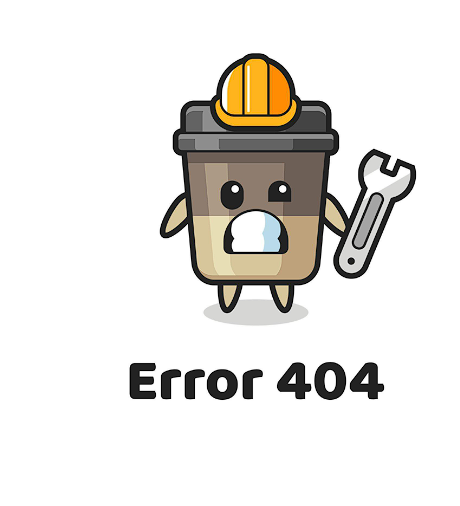
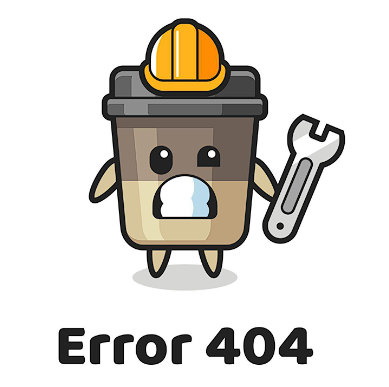
agregue el maquetado del error y la de admi, faltan agregar iconos

Changed region(s): [[0.2159, 0.031, 0.9254, 0.8062], [0.1234, 0.8372, 0.4936, 0.9612], [0.5244, 0.8372, 0.8021, 0.9612]]

diff --git a/src/components/pages/Administrador.jsx b/src/components/pages/Administrador.jsx
@@ -1,6 +1,39 @@
+import { Container, Table } from "react-bootstrap";
+import chocotorta from '../../assets/chocotorta.jpg'
+
 const Administrador = () => {
     return (
-            <p>agregar el maquetado del admin</p>
+        <>
+            <h2 className="display-3">pagina del admin</h2>
+            <Container>
+                <h2 className="text-black display-3">Productos Disponibles</h2>
+                <hr/>
+                <Table striped bordered hover>
+      <thead>
+        <tr>
+          <th>Code</th>
+          <th>Producto</th>
+          <th>Precio</th>
+          <th>URL de la imagen</th>
+          <th>Categoria</th>
+          <th>Opciones</th>
+        </tr>
+      </thead>
+      <tbody>
+        <tr>
+          <td>1</td>
+          <td>Chocotorta</td>
+          <td>$2.500</td>
+          <td className="text-center">
+          <img src={chocotorta} className='img-fluid' width={150} alt="logo de rolling coffee" />
+            </td>
+          <td>Reposteria</td>
+          <td>opcion editar y borrar</td>
+        </tr>
+      </tbody>
+    </Table>
+            </Container>
+        </>
     );
 };
 

diff --git a/src/App.jsx b/src/App.jsx
@@ -3,18 +3,20 @@ import 'bootstrap/dist/css/bootstrap.min.css';
 import Menu from './components/common/Menu'
 import Inicio from './components/pages/Inicio'
 import Footer from './components/common/Footer'
-import Container from "react-bootstrap";
+import Error404 from './components/pages/Error404'
 import Administrador from './components/pages/Administrador'
 
 function App() {
 
   return (
     <>
-    <Container className='mainPage'>
+    <section className='mainPage'>
     <Menu></Menu>
     <Inicio></Inicio>
     {/*<Administrador></Administrador>*/}
-    </Container>
+   {/* <Error404></Error404> */}
+   {/* <Administrador></Administrador> */}
+    </section>
     <Footer></Footer>
     </>
   )

diff --git a/src/components/pages/Error404.jsx b/src/components/pages/Error404.jsx
@@ -1,6 +1,16 @@
+import error404 from '../../assets/error404.png'
+import { Button} from 'react-bootstrap'
 const Error404 = () => {
     return (
-        <p>aqui va el maquetado del error</p>
+        <>
+        <section className='text-center'>
+      <div>
+        <h2 className="display-3">aqui va el maquetado del error</h2>
+        <img src={error404} className='img-fluid' width={450} alt="Error 404" />
+        </div>
+        <Button className="mt-1 bg-success text-center my-4">Volver al inicio</Button>
+        </section>
+        </>
     );
 };
 
